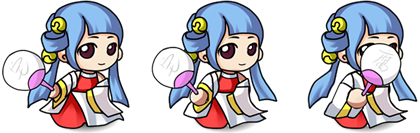
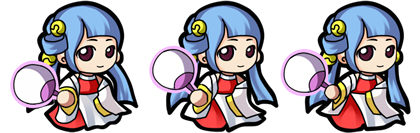
modified:   ../../../js/g_data.js 	modified:   ../role/role2.png

diff --git a/development/js/g_data.js b/development/js/g_data.js
@@ -201,7 +201,7 @@ g_data = {
 		//人物2等待状态
 		role2_wait: {
 			info: {
-				"nbrOfFrames": 3,
+				"nbrOfFrames": 2,
 				"pivoty": 123,
 				"framerate": 4,
 				"pivotx": 80,
@@ -209,8 +209,7 @@ g_data = {
 			},
 			data: [
 				[0,0,139,132,0,0,139,132],
-				[140,0,279,132,140,0,279,132],
-				[280,0,419,132,280,0,419,132]
+				[140,0,279,132,140,0,279,132]
 			],
 			filename: 'images/role/role2.png'
 		},
